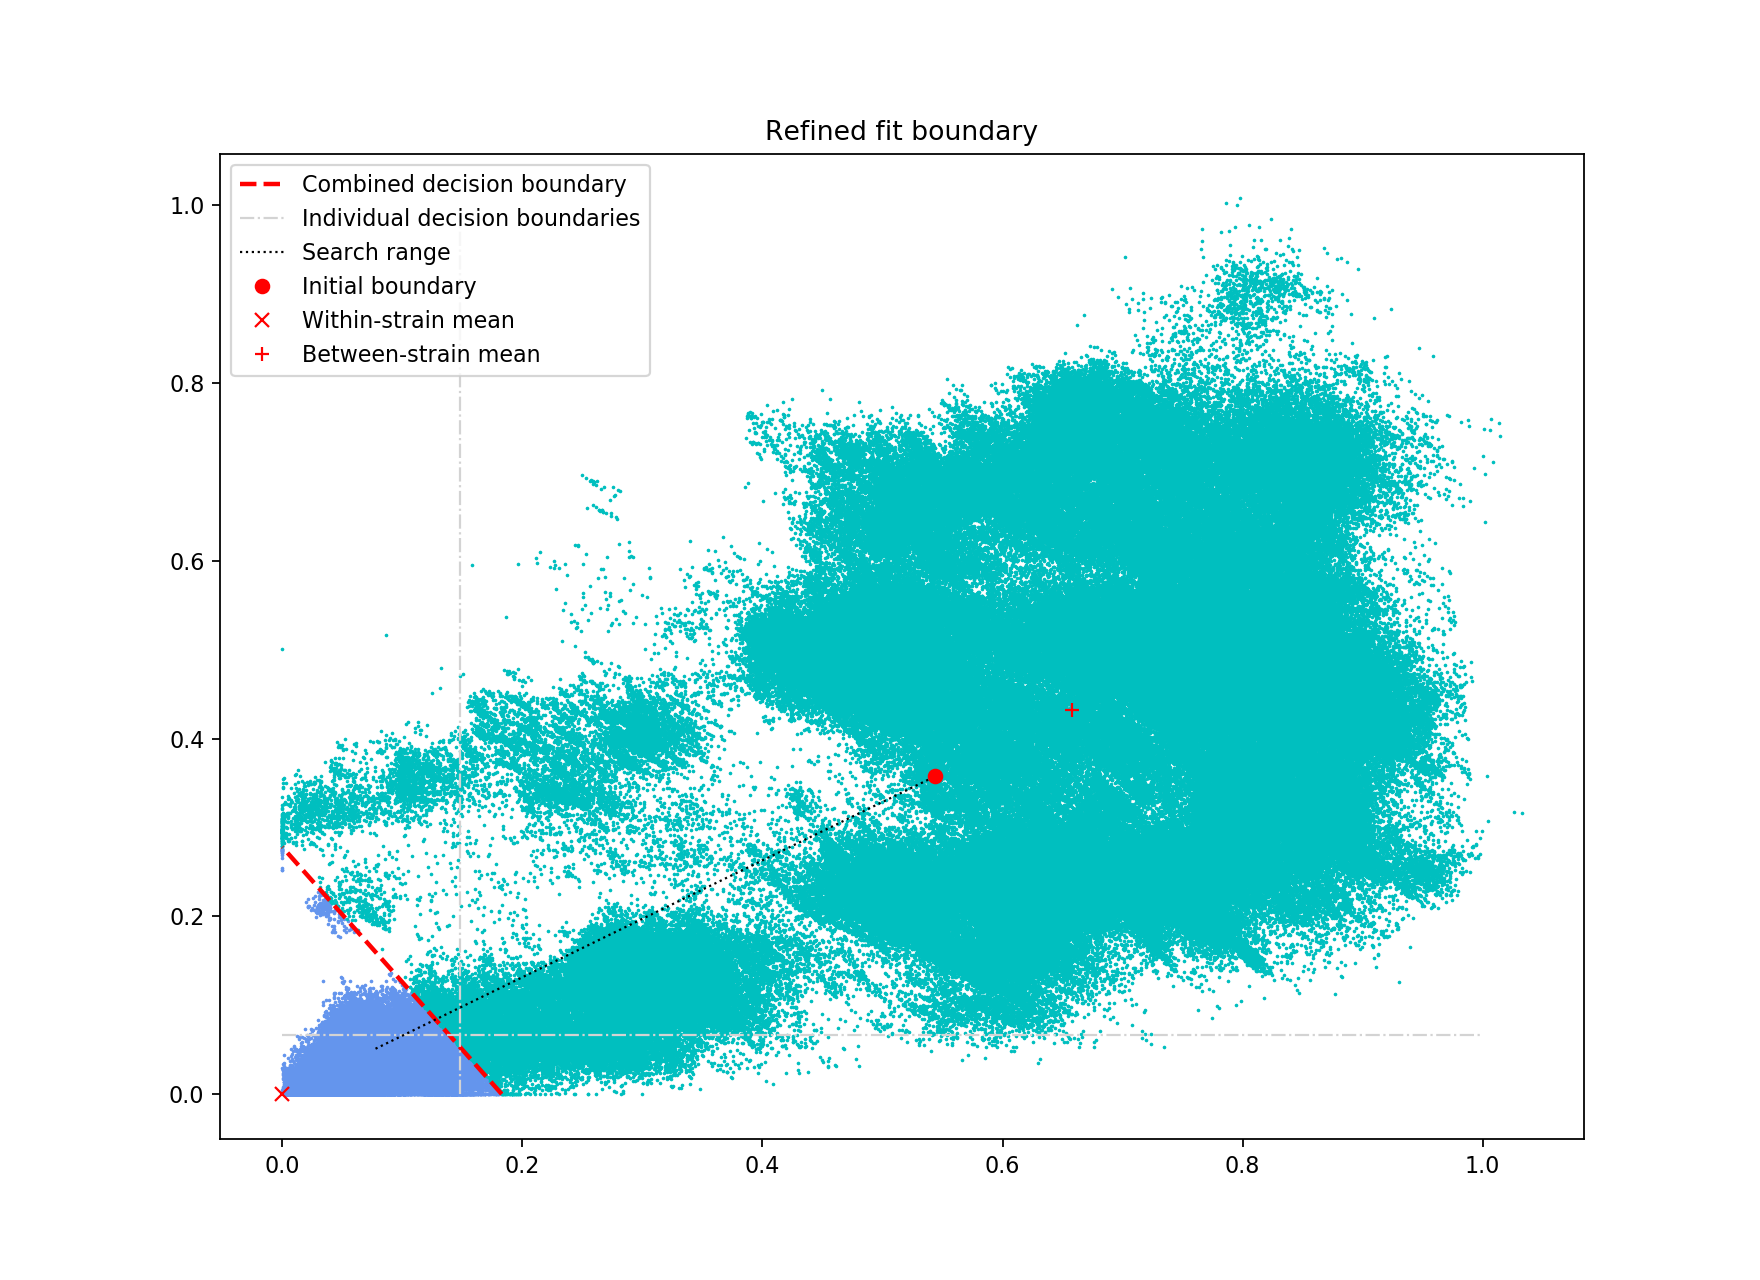
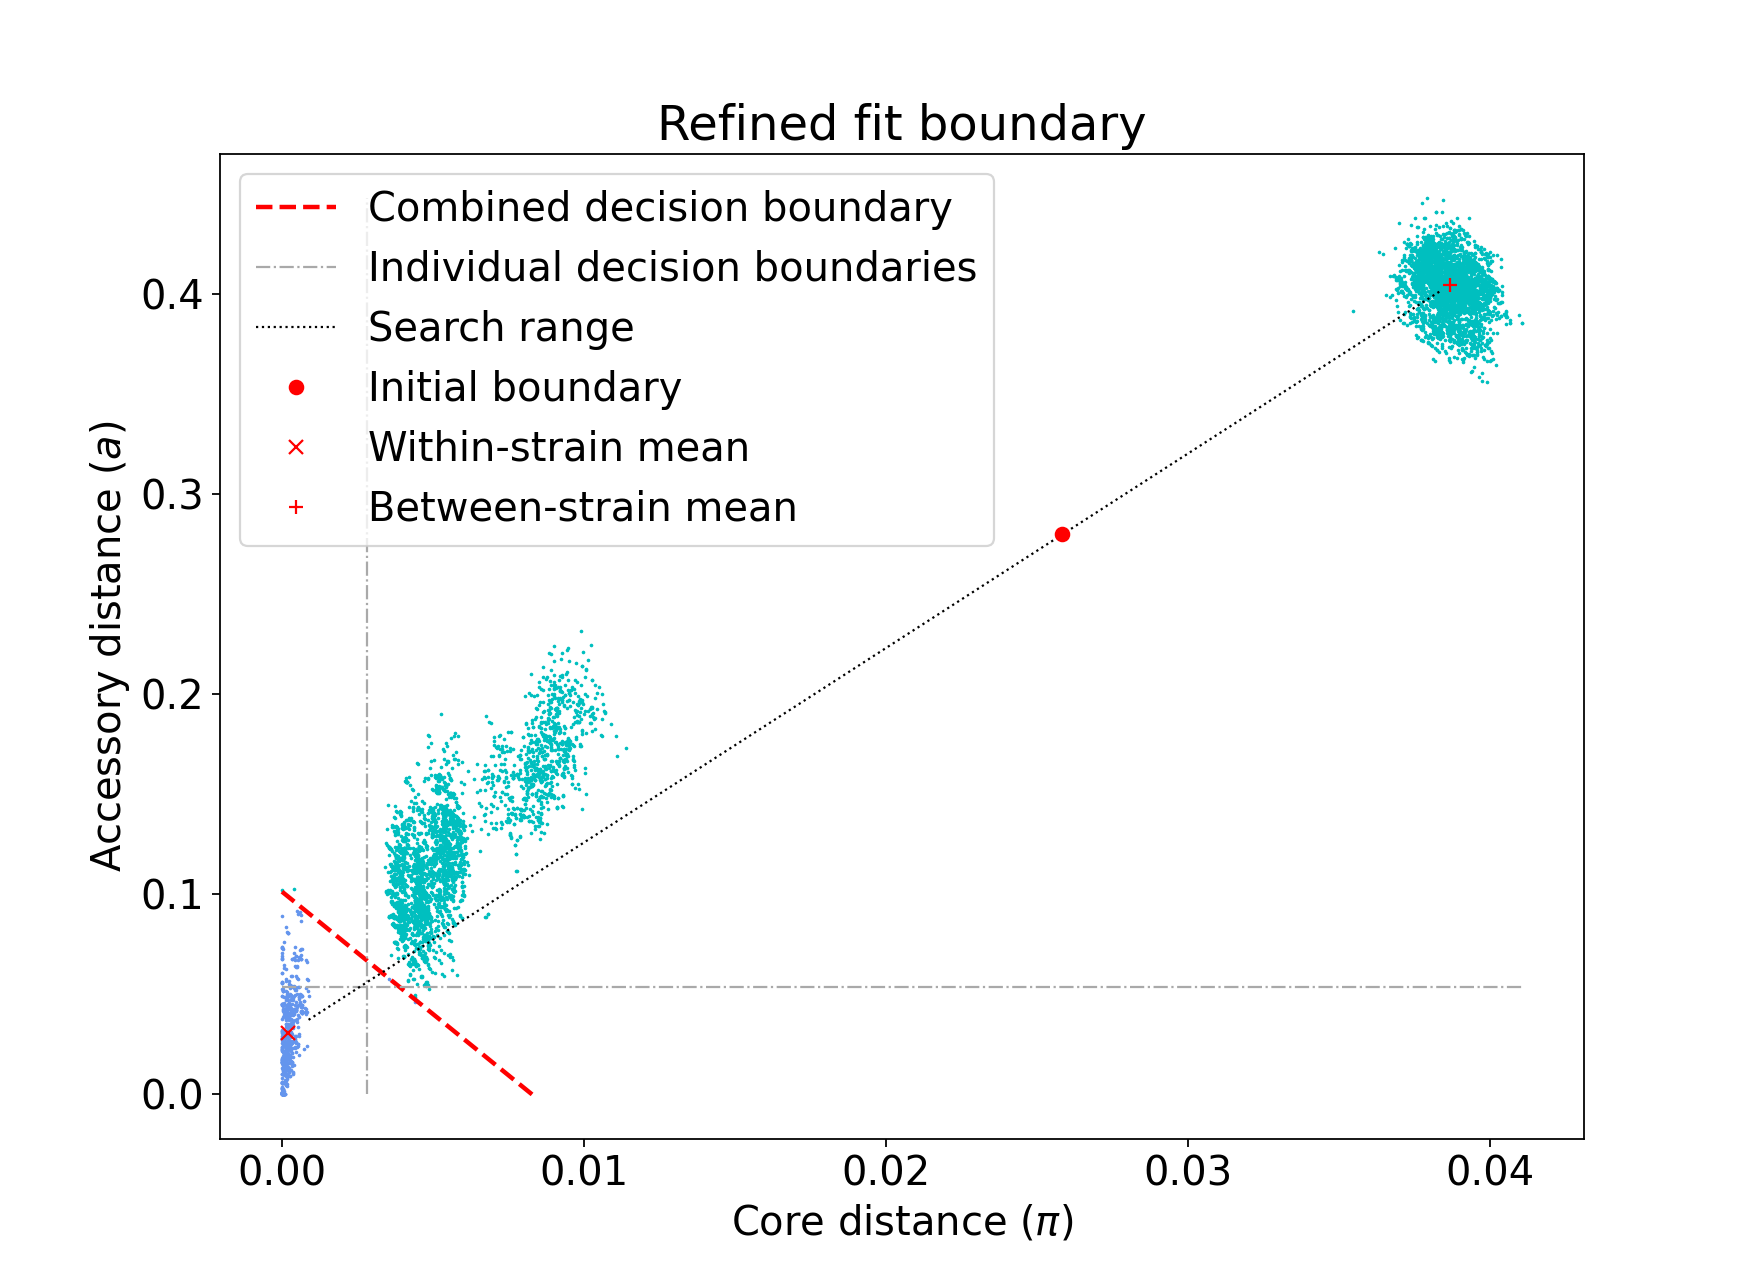
Add refine model docs
Also change how indiv-refine is specified, and add to tests

diff --git a/PopPUNK/__main__.py b/PopPUNK/__main__.py
@@ -111,12 +111,13 @@ def get_options():
             type=float, default = None)
     refinementGroup.add_argument('--manual-start', help='A file containing information for a start point. '
             'See documentation for help.', default=None)
-    refinementGroup.add_argument('--indiv-refine', help='Also run refinement for core and accessory individually', default=False,
-            action='store_true')
+    refinementGroup.add_argument('--indiv-refine', help='Also run refinement for core and accessory individually',
+            choices=['both', 'core', 'accessory'], default = False)
     refinementGroup.add_argument('--no-local', help='Do not perform the local optimization step (speed up on very large datasets)',
             default=False, action='store_true')
     refinementGroup.add_argument('--model-dir', help='Directory containing model to use for assigning queries '
                                                    'to clusters [default = reference database directory]', type = str)
+    refinementGroup.add_argument('--core-only', help='Save the core distance fit (with ')
 
     # lineage clustering within strains
     lineagesGroup = parser.add_argument_group('Lineage analysis options')
@@ -475,10 +476,10 @@ def main():
                     output + "/" + os.path.basename(output) + \
                     "_" + dist_type + '_graph.gt', fmt = 'gt')
 
-            if args.core_only:
+            if args.indiv_refine == 'core':
                 fit_type = 'core'
                 genomeNetwork = indivNetworks['core']
-            elif args.accessory_only:
+            elif args.indiv_refine == 'accessory':
                 fit_type = 'accessory'
                 genomeNetwork = indivNetworks['accessory']
 

diff --git a/test/run_test.py b/test/run_test.py
@@ -12,7 +12,6 @@ if not os.path.isfile("12754_4#89.contigs_velvet.fa"):
     sys.stderr.write("Extracting example dataset\n")
     subprocess.run("tar xf example_set.tar.bz2", shell=True, check=True)
 
-#easy run
 sys.stderr.write("Running database creation (--create-db)\n")
 subprocess.run("python ../poppunk-runner.py --create-db --r-files references.txt --min-k 13 --k-step 3 --output example_db --qc-filter prune --overwrite", shell=True, check=True)
 
@@ -31,6 +30,7 @@ subprocess.run("python ../poppunk-runner.py --fit-model dbscan --ref-db example_
 #refine model with GMM
 sys.stderr.write("Running model refinement (--fit-model refine)\n")
 subprocess.run("python ../poppunk-runner.py --fit-model refine --ref-db example_db --output example_refine --neg-shift 0.8 --overwrite", shell=True, check=True)
+subprocess.run("python ../poppunk-runner.py --fit-model refine --ref-db example_db --output example_refine --neg-shift 0.8 --overwrite --indiv-refine both", shell=True, check=True)
 
 # lineage clustering
 sys.stderr.write("Running lineage clustering test (--fit-model lineage)\n")

diff --git a/docs/model_fitting.rst b/docs/model_fitting.rst
@@ -1,6 +1,9 @@
 Fitting new models
 ==================
 
+.. |nbsp| unicode:: 0xA0
+   :trim:
+
 If you cannot find an existing model for your species in the
 `list <https://poppunk.net/pages/databases.html>`__ you will want to fit your own.
 This process is flexible, and there are five different models you can use depending
@@ -47,13 +50,18 @@ A completed fit will consist of:
 - A ``.refs`` file, which lists the samples kept as 'references' for assigning
   future samples (see :doc:`model_distribution` for more details).
 
-This page will use 128 *Listeria monocytogenes* samples from `Kremer et al <https://doi.org/10.1016/j.cmi.2016.12.008>`__,
+This page will use 128 *Listeria*\ |nbsp| \ *monocytogenes* genomes from `Kremer et al <https://doi.org/10.1016/j.cmi.2016.12.008>`__,
 which can be downloaded from `figshare <https://doi.org/10.6084/m9.figshare.7083389>`__. The distribution of
-core and accessory distances from the ``--create-db`` step is as follows
+core and accessory distances from the ``--create-db`` step is as follows:
 
 .. image:: images/listeria_dists.png
    :alt:  Core and accessory distances for the example data
    :align: center
+
+We also show some examples with 616 *Streptococcus*\ |nbsp| \ *pneumoniae* genomes, which are more complex.
+These genomes were collected from Massachusetts,
+first reported `here <https://www.nature.com/articles/ng.2625>`__ and can be accessed
+`here <https://www.nature.com/articles/sdata201558>`__.
 
 Common arguments
 ----------------
@@ -100,6 +108,8 @@ All fits will output a network summary which looks similar to this::
 - Score synthesises the above as :math:`(1 - \mathrm{density}) * \mathrm{transitivity}`,
   which gives a single number between 0 (bad) and 1 (good) which in many cases is
   at a maximum when it accurately describes strains in the data.
+
+.. _bgmm:
 
 bgmm
 ----
@@ -257,6 +267,8 @@ a bad fit:
 This is clearly a poor fit. The real issue is that the component whose mean is nearest
 the origin is unclear, and doesn't include all of the smallest distances.
 
+.. _dbscan:
+
 dbscan
 ------
 This mode uses `HDBSCAN <https://hdbscan.readthedocs.io/en/latest/>`__ to find clusters
@@ -377,6 +389,101 @@ Setting either ``--min-cluster-prop`` or ``--D`` too low can cause the fit to fa
 
 refine
 ------
+Model refinement is slightly different: it takes a model already fitted by :ref:`bgmm`
+or :ref:`dbscan` and tries to improve it by optimising the network score. This starts
+with a parallelised global optimisation step, followed by a serial local optimisation
+step (which can be turned off with ``--no-local``). Use of multiple ``--cpus`` is
+effective for these model fits.
+
+Briefly:
+
+* A line between the within- and between-strain means is constructed
+* The point on this line where samples go from being assigned as within-strain to between-strain is used as the starting point
+* A line normal to the first line, passing through this point is constructed. The triangle formed by this line and the x- and y-axes is now the decision boundary. Points within this line are within-strain.
+* The starting point is shifted by a distance along the first line, and a new decision boundary formed in the same way. The network is reconstructed.
+* The shift of the starting point is optimised, as judged by the network score. First globally by a grid search, then locally near the global optimum.
+
+Applying this to the *Listeria* DBSCAN fit (noting that you may specify a separate
+directory to load the model from with ``--model-dir``, if multiple model fits are available)::
+
+    poppunk --fit-model refine --ref-db listeria --model-dir dbscan
+    PopPUNK (POPulation Partitioning Using Nucleotide Kmers)
+        (with backend: sketchlib v1.6.0
+        sketchlib: /Users/jlees/miniconda3/envs/pp-py38/lib/python3.8/site-packages/pp_sketchlib.cpython-38-darwin.so)
+
+    Graph-tools OpenMP parallelisation enabled: with 1 threads
+    Mode: Fitting refine model to reference database
+
+    Loading DBSCAN model
+    Loaded previous model of type: dbscan
+    Initial model-based network construction based on DBSCAN fit
+    Initial boundary based network construction
+    Decision boundary starts at (0.63,0.62)
+    Trying to optimise score globally
+    Trying to optimise score locally
+
+    Optimization terminated successfully;
+    The returned value satisfies the termination criteria
+    (using xtol =  1e-05 )
+    Network summary:
+        Components	29
+        Density	0.0897
+        Transitivity	0.9984
+        Score	0.9088
+    Removing 93 sequences
+
+    Done
+
+As this model was already well fitted, this doesn't change much, and finds very similar
+clusters (though noise points are eliminated):
+
+.. image:: images/listeria_refined.png
+   :alt:  A refine fit on Listeria
+   :align: center
+
+The default is to search along the entire range between the within- and between-strain clusters,
+but sometimes this can include undesired optima, particularly near the origin. To exclude these,
+use ``--pos-shift`` to alter the distance between the end of the search range and the origin
+and ``--neg-shift`` for the start of the search range.
+
+This mode is more useful in species with a relatively high recombination rate the distinction between
+the within- and between-strain distributions may be blurred in core and
+accessory space. This does not give the mixture model enough information to
+draw a good boundary as the likelihood is very flat in this region:
+
+.. image:: images/pneumo_unrefined.png
+   :alt:  A bad DPGMM fit
+   :align: center
+
+Although the score of this fit looks ok (0.904), inspection of the network and
+microreact reveals that it is too liberal and clusters have been merged. This
+is because some of the blur between the origin and the central distribution has
+been included, and connected clusters together erroneously.
+
+The likelihood of the model fit and the decision boundary looks like this:
+
+.. image:: images/pneumo_likelihood.png
+   :alt:  The likelihood and decision boundary of the above fit
+   :align: center
+
+Using the core and accessory distributions alone does not give much information
+about exactly where to put the boundary, and the only way to fix this would be
+by specifying strong priors on the weights of the distributions. Fortunately
+the network properties give information in the region, and we can use
+``--refine-fit`` to tweak the existing fit and pick a better boundary.
+
+Here is the refined fit, which has a score of 0.939, and 62 rather than 32
+components:
+
+.. image:: images/pneumo_refined.png
+   :alt:  The refined fit
+   :align: center
+
+Which, looking at the `microreact output <https://microreact.org/project/SJxxLMcaf>`__, is much better:
+
+.. image:: images/refined_microreact.png
+   :alt:  The refined fit, in microreact
+   :align: center
 
 .. _manual-start:
 
@@ -394,7 +501,82 @@ A key, followed by its value (space separated).
 
 ``mean0`` and ``mean1`` define the points (x,y) to draw the line between, and
 ``start_point`` is the distance along this line to draw the initial boundary
-(which is normal to the line).
+(which is normal to the line). These define the three red points (and therefore the
+search range) in the output plot
+
+.. _indiv-refine:
+
+Using core/accessory only
+^^^^^^^^^^^^^^^^^^^^^^^^^
+In some cases, such as analysis within a lineage, it may be desirable to use
+only core or accessory distances to classify further queries. This can be
+achieved by adding the ``--indiv-refine both`` option, which will allow these boundaries to be
+placed independently, allowing the best fit in each case::
+
+    poppunk --fit-model refine --ref-db listeria --model-dir dbscan --indiv-refine both
+    PopPUNK (POPulation Partitioning Using Nucleotide Kmers)
+        (with backend: sketchlib v1.6.0
+        sketchlib: /Users/jlees/miniconda3/envs/pp-py38/lib/python3.8/site-packages/pp_sketchlib.cpython-38-darwin.so)
+
+    Graph-tools OpenMP parallelisation enabled: with 1 threads
+    Mode: Fitting refine model to reference database
+
+    Loading DBSCAN model
+    Loaded previous model of type: dbscan
+    Initial model-based network construction based on DBSCAN fit
+    Initial boundary based network construction
+    Decision boundary starts at (0.63,0.62)
+    Trying to optimise score globally
+    Trying to optimise score locally
+
+    Optimization terminated successfully;
+    The returned value satisfies the termination criteria
+    (using xtol =  1e-05 )
+    Refining core and accessory separately
+    Initial boundary based network construction
+    Decision boundary starts at (0.63,0.62)
+    Trying to optimise score globally
+    Trying to optimise score locally
+
+    Optimization terminated successfully;
+    The returned value satisfies the termination criteria
+    (using xtol =  1e-05 )
+    Initial boundary based network construction
+    Decision boundary starts at (0.63,0.62)
+    Trying to optimise score globally
+    Trying to optimise score locally
+
+    Optimization terminated successfully;
+    The returned value satisfies the termination criteria
+    (using xtol =  1e-05 )
+    Network summary:
+        Components	29
+        Density	0.0897
+        Transitivity	0.9984
+        Score	0.9088
+    Network summary:
+        Components	31
+        Density	0.0897
+        Transitivity	1.0000
+        Score	0.9103
+    Network summary:
+        Components	31
+        Density	0.0808
+        Transitivity	0.9862
+        Score	0.9064
+    Removing 93 sequences
+
+    Done
+
+There are three different networks, and the core and accessory boundaries will
+also be shown on the _refined_fit.png plot as dashed gray lines:
+
+.. image:: images/indiv_refine.png
+   :alt:  Refining fit with core and accessory individuals independently
+   :align: center
+
+To use one of these for your saved model, rerun, but instead setting
+``--indiv-refine core`` or ``--indiv-refine accessory``.
 
 lineage
 -------

diff --git a/docs/options.rst b/docs/options.rst
@@ -114,7 +114,8 @@ Command line options::
     --manual-start MANUAL_START
                           A file containing information for a start point.
                           See documentation for help.
-    --indiv-refine        Also run refinement for core and accessory
+    --indiv-refine {both,core,accessory}
+                          Also run refinement for core and accessory
                           individually
     --no-local            Do not perform the local optimization step (speed
                           up on very large datasets)
